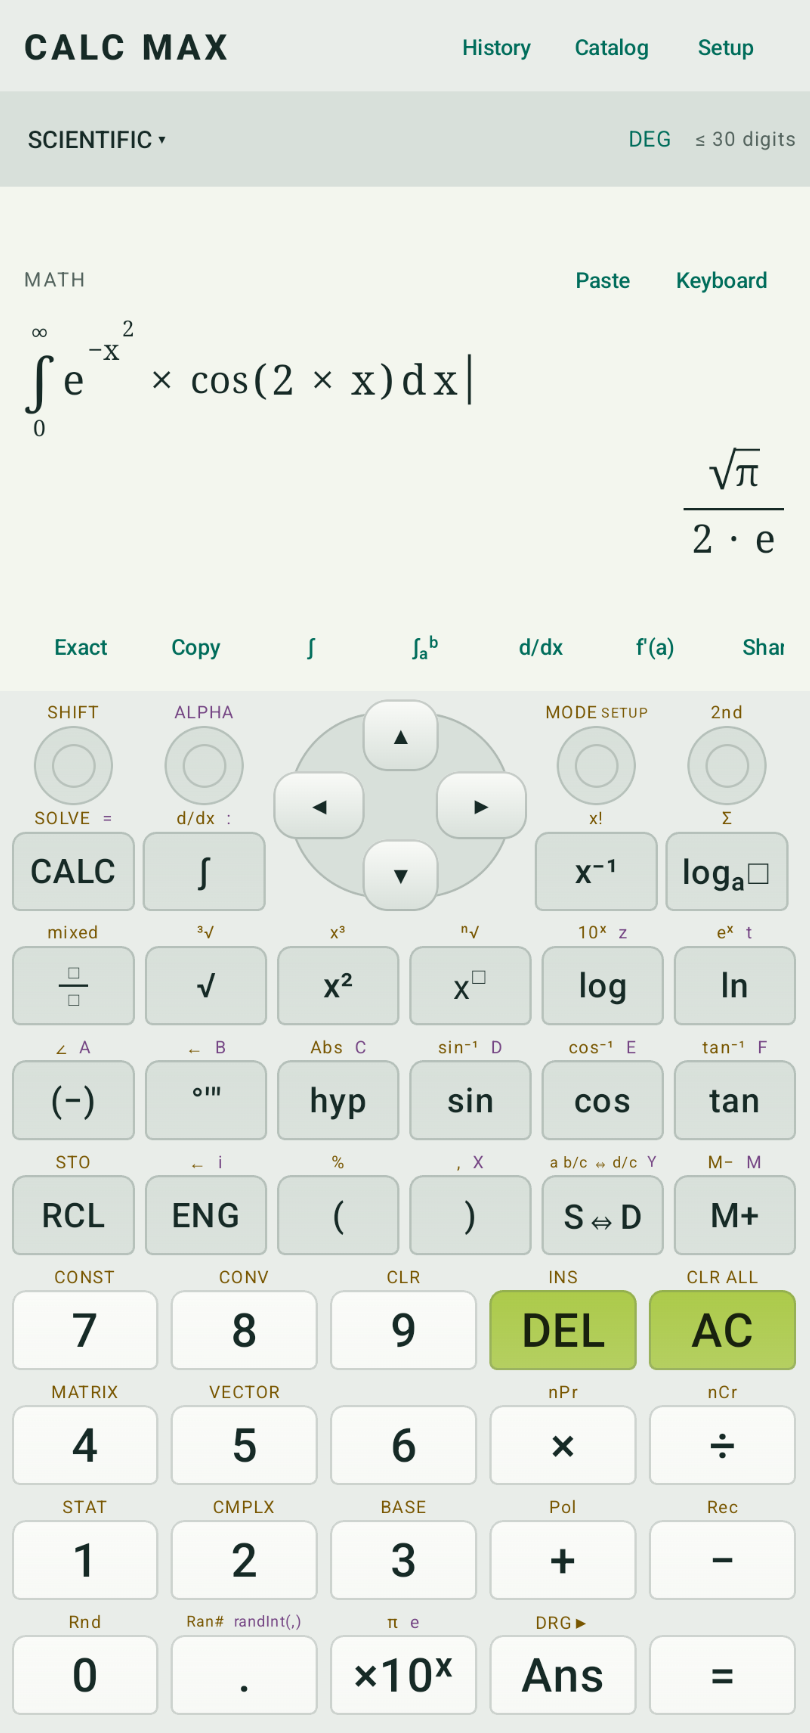
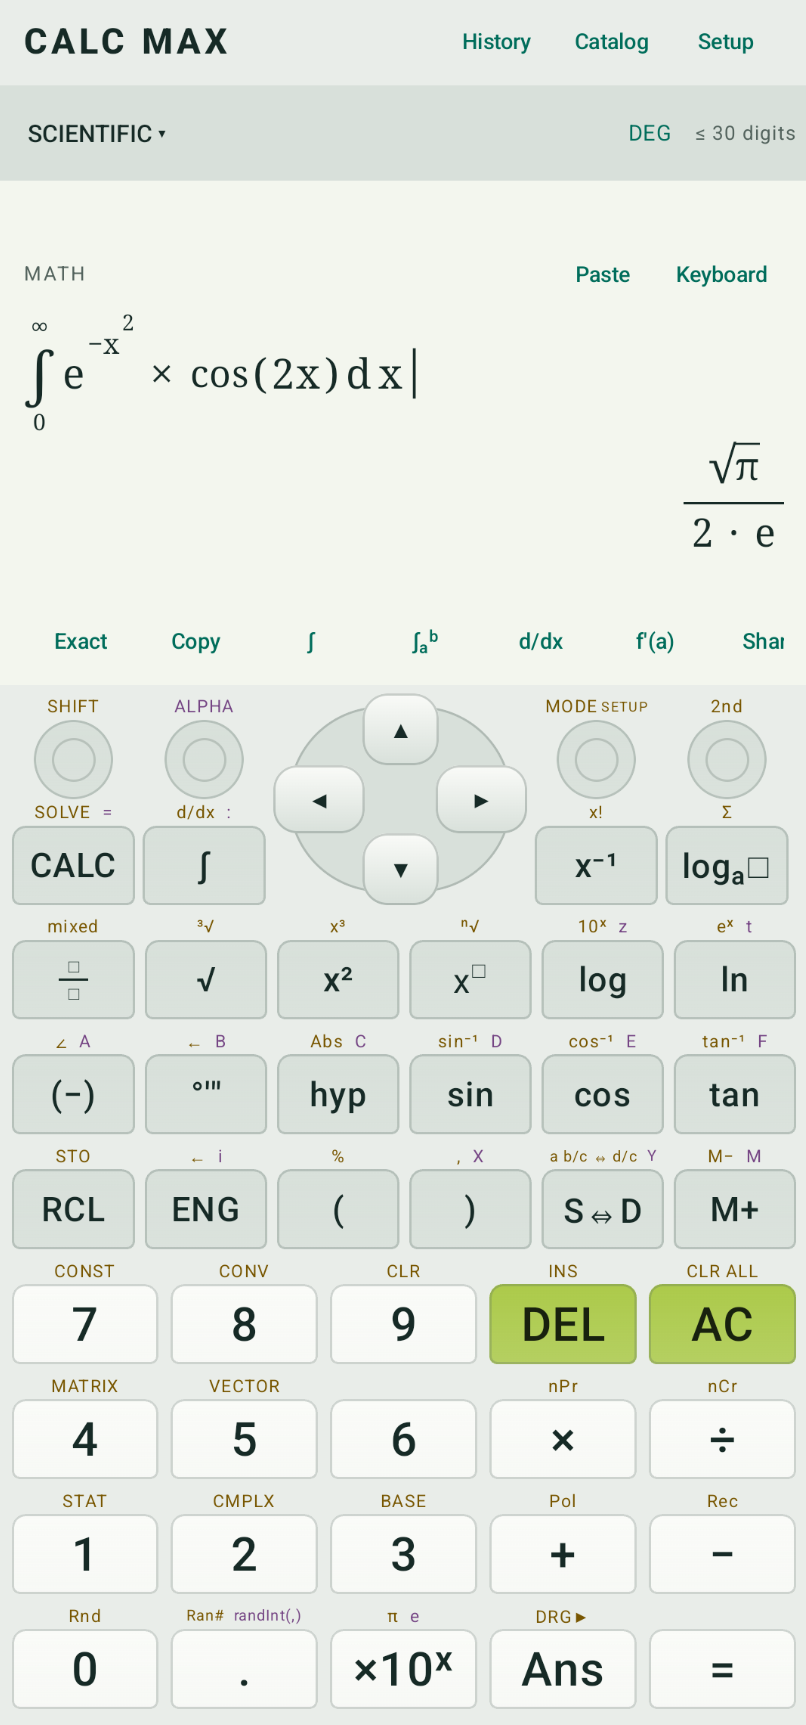
fix

diff --git a/app/src/main/java/com/example/calcmax/ui/MathDisplay.kt b/app/src/main/java/com/example/calcmax/ui/MathDisplay.kt
@@ -91,6 +91,9 @@ private fun Placeable.axis():Int = this[MathAxis].let{if(it==AlignmentLine.Unspe
     val value=node.optString("value")
     val array=node.optJSONArray("args")
     val children=(0 until (array?.length() ?: 0)).map{array!!.getJSONObject(it)}
+    val integrationTuple=if(kind=="call"&&value=="integrate"&&children.size==2&&children[1].optString("kind")=="tuple")children[1].optJSONArray("args")else null
+    val integrationArity=integrationTuple?.length()?.plus(1) ?: children.size
+    val coefficient=kind=="binary"&&value=="*"&&children.size==2&&children[0].optString("kind")=="number"&&children[1].optString("kind")=="symbol"
     val start=node.optInt("start",-1);val end=node.optInt("end",-1)
     val range=start..end
     val target=LocalMathCursorTarget.current
@@ -102,6 +105,10 @@ private fun Placeable.axis():Int = this[MathAxis].let{if(it==AlignmentLine.Unspe
     val touch=Modifier.then(if(selected||activeHole)Modifier.background(c.accent.copy(alpha=.17f),RoundedCornerShape(2.dp))else Modifier)
         .then(if(select!=null&&start>=0)Modifier.clickable{select(start,end)}else Modifier)
     @Composable fun child(i:Int,scale:Float=1f,hidden:Boolean=false) {children.getOrNull(i)?.let{MathNode(it,(size*scale).coerceAtLeast(11f),select,selection,depth+1,hidden)}}
+    @Composable fun integralPart(i:Int,scale:Float=1f) {
+        if(i==0||integrationTuple==null)child(i,scale)
+        else integrationTuple.optJSONObject(i-1)?.let{MathNode(it,(size*scale).coerceAtLeast(11f),select,selection,depth+1)}
+    }
     @Composable fun label(text:String,scale:Float=1f){MathText(text,size*scale)}
     @Composable fun wrapped(i:Int,scale:Float=1f){MathRow{label("(",scale);child(i,scale);label(")",scale)}}
     val fraction=kind=="fraction"||kind=="binary"&&value=="/"
@@ -168,28 +175,30 @@ private fun Placeable.axis():Int = this[MathAxis].let{if(it==AlignmentLine.Unspe
                 if(value=="nderivative"){label("│",1.4f);Box(Modifier.padding(top=16.dp)){MathRow{child(1,.6f);label("=",.6f);child(2,.6f)}}}
             }
             kind=="call"&&value in listOf("integrate","sum","product")->MathRow(3.dp){
-                MathStack(if(children.size>3)1 else 0){
-                    if(children.size>3)child(3,.55f)
+                MathStack(if(integrationArity>3)1 else 0){
+                    if(integrationArity>3)integralPart(3,.55f)
                     label(when(value){"integrate"->"∫";"sum"->"Σ";else->"Π"},1.4f)
-                    if(children.size>2)MathRow{if(value!="integrate"){child(1,.55f);label("=",.55f)};child(2,.55f)}
+                    if(integrationArity>2)MathRow{if(value!="integrate"){child(1,.55f);label("=",.55f)};integralPart(2,.55f)}
                 }
                 child(0)
-                if(value=="integrate"){label("d");child(1)}
+                if(value=="integrate"){label("d");integralPart(1)}
             }
             kind=="call"&&value=="limit"->MathRow(4.dp){MathStack(0){label("lim");MathRow{child(1,.55f);if(children.size>2){label("→",.55f);child(2,.55f)}}};child(0)}
             kind in listOf("call","function")&&value in listOf("piecewise","Piecewise")->MathRow{label("{",1.7f);Column{children.indices.forEach{child(it,.85f)}}}
-            else->MathRow(2.dp){
-                val wrap=kind in listOf("call","function","list","set")
+            else->MathRow(if(coefficient)0.dp else 2.dp){
+                val wrap=kind in listOf("call","function","list","tuple","set")
                 if(kind in listOf("call","function"))label(value,.9f)
                 if(wrap)label(when(kind){"list"->"[";"set"->"{";else->"("})
                 children.forEachIndexed{i,n->
                     val negative=kind=="sum"&&n.optString("kind")=="unary"&&n.optString("value")=="-"
                     if(negative){label(if(i==0)"−" else " − ");MathNode(n.getJSONArray("args").getJSONObject(0),size,select,selection,depth+1)}
                     else {
-                        if(i>0)label(when(kind){"sum"->" + ";"product"->" · ";"binary","relation"->when(value){"*"->" × ";"-"->" − ";"!="->" ≠ ";"<="->" ≤ ";">="->" ≥ ";else->" $value "};else->", "})
+                        val adjacentCoefficient=kind=="product"&&i>0&&children[i-1].optString("kind")=="number"&&n.optString("kind")=="symbol"
+                        if(i>0&&!coefficient&&!adjacentCoefficient)label(when(kind){"sum"->" + ";"product"->" · ";"binary","relation"->when(value){"*"->" × ";"-"->" − ";"!="->" ≠ ";"<="->" ≤ ";">="->" ≥ ";else->" $value "};else->", "})
                         if(kind=="product"&&n.optString("kind")=="sum")wrapped(i)else child(i)
                     }
                 }
+                if(kind=="tuple"&&children.size==1)label(",")
                 if(wrap)label(when(kind){"list"->"]";"set"->"}";else->")"})
                 if(children.isEmpty())label(value)
             }

diff --git a/math/src/test/kotlin/com/example/calcmax/math/ParserTest.kt b/math/src/test/kotlin/com/example/calcmax/math/ParserTest.kt
@@ -7,9 +7,16 @@ class ParserTest {
     @Test fun precedence() { assertEquals("*",p("2+3*4").args[1].value); assertEquals("unary",p("-2^2").kind); assertEquals("^",p("2^3^2").args[1].value) }
     @Test fun exactLiteral() { assertEquals("1",p("1/3").args[0].value); assertEquals("number",p("1.234567890123456789").kind) }
     @Test fun structures() { assertEquals("list",p("det([[1,2],[3,4]])").args[0].kind); assertEquals("relation",p("solve(x^2=1,x)").args[0].kind); assertEquals("*",p("2x").value) }
+    @Test fun integrationTuple() {
+        val integral=p("integrate(exp(-x^2)*cos(2x), (x, 0, oo))")
+        assertEquals("tuple",integral.args[1].kind)
+        assertEquals(listOf("x","0","oo"),integral.args[1].args.map{it.value})
+        assertEquals("*",integral.args[0].args[1].args[0].value)
+        assertEquals("tuple",p("(x,)").kind)
+    }
     @Test fun unicode() { assertEquals("^",p("x²").value); assertEquals("sqrt",p("√8").value); assertEquals("degree",p("30°").value) }
     @Test fun editor() { assertEquals("sqrt(8)",Editor().insert("sqrt()",5).insert("8").source); assertEquals("2+",Editor("2+3").delete().source); assertEquals("7",Editor("2+3",3,0).insert("7").source) }
-    @Test fun invalid() { for(s in listOf("", "1..2", "2+", "a.__class__", "f(1,)", "[1,2")) assertThrows(SyntaxException::class.java) { p(s) } }
+    @Test fun invalid() { for(s in listOf("", "1..2", "2+", "a.__class__", "f(1,)", "[1,2", "(x,,0)")) assertThrows(SyntaxException::class.java) { p(s) } }
     @Test fun complexity() { assertThrows(SyntaxException::class.java) { p("(".repeat(200)+"1"+")".repeat(200)) } }
     @Test fun editingHoles() {
         val tree=Editor("()/()").tree()!!

diff --git a/math/src/test/kotlin/com/example/calcmax/math/Cases.kt b/math/src/test/kotlin/com/example/calcmax/math/Cases.kt
@@ -25,7 +25,7 @@ fun main(args: Array<String>) {
         "qty(2,m)+qty(30,cm)" to "23/10 m", "convert(qty(1,kg)*qty(2,mps2),N)" to "2",
         "qty(1,km)/qty(1,m)" to "1000", "convert(qty(32,degF),degC)" to "0"
     )
-    val extras=listOf("1/0","0^0","inverse([[1,2],[2,4]])","dot([1,2],[1,2,3])","convert(1,m,kg)","convert(-1,K,degC)","factorial(-1)","sqrt(x^2)","solve((x^2-1)/(x-1)=2,x)","sin(x)","[cos(t),sin(t)]","1/x","tan(x)","nsolve(cos(x)-x,x,0,1)","nintegrate(sin(x),x,0,pi)","stats([1,2,3])","series(exp(x),x,0,4)","solve([x+y=3,x-y=1],[x,y])","integrate(exp(-x^2),x)","minimum(x^2,x,-2,3)","maximum(x^2,x,-2,3)","eigenvalues([[1,0],[0,2]])","lu([[1,2],[3,4]])","f(3)","x+1")
+    val extras=listOf("1/0","0^0","inverse([[1,2],[2,4]])","dot([1,2],[1,2,3])","convert(1,m,kg)","convert(-1,K,degC)","factorial(-1)","sqrt(x^2)","solve((x^2-1)/(x-1)=2,x)","sin(x)","cos(2*x)","[cos(t),sin(t)]","1/x","tan(x)","nsolve(cos(x)-x,x,0,1)","nintegrate(sin(x),x,0,pi)","stats([1,2,3])","series(exp(x),x,0,4)","solve([x+y=3,x-y=1],[x,y])","integrate(exp(-x^2),x)","integrate(exp(-x^2)*cos(2x),(x,0,oo))","integrate(exp(-x^2)*cos(2*x),x,0,oo)","minimum(x^2,x,-2,3)","maximum(x^2,x,-2,3)","eigenvalues([[1,0],[0,2]])","lu([[1,2],[3,4]])","f(3)","x+1")
     val values=cases.map { (source,expected)->"{\"source\":${quote(source)},\"expected\":${quote(expected)},\"tree\":${Parser(source).parse().json()}}" }+extras.map { "{\"source\":${quote(it)},\"tree\":${Parser(it).parse().json()}}" }
     File(args[0]).apply { parentFile.mkdirs();writeText(values.joinToString(",","[","]")) }
 }

diff --git a/math/src/main/kotlin/com/example/calcmax/math/Expression.kt b/math/src/main/kotlin/com/example/calcmax/math/Expression.kt
@@ -65,7 +65,18 @@ class Parser(private val source: String, private val allowHoles: Boolean = false
         var left = when {
             first.text in listOf("+", "-") -> Expr("unary", first.text, listOf(expression(25)), first.start, tokens[index-1].end)
             first.text == "√" -> Expr("call", "sqrt", listOf(expression(25)), first.start, tokens[index-1].end)
-            first.text == "(" -> { val x = expression(0); val end = expect(")"); Expr("group", args = listOf(x), start = first.start, end = end.end) }
+            first.text == "(" -> {
+                val args = mutableListOf(expression(0))
+                var tuple = false
+                while(token.text == ",") {
+                    tuple = true
+                    take()
+                    if(token.text == ")") break
+                    args += expression(0)
+                }
+                val end = expect(")")
+                Expr(if(tuple) "tuple" else "group", args = args, start = first.start, end = end.end)
+            }
             first.text == "[" -> {
                 val args = mutableListOf<Expr>()
                 if(token.text != "]") { args += expression(0); while(token.text == ",") { take(); args += expression(0) } }

diff --git a/app/src/main/java/com/example/calcmax/ui/EquationScreen.kt b/app/src/main/java/com/example/calcmax/ui/EquationScreen.kt
@@ -107,6 +107,7 @@ private fun editableSource(node:JSONObject):String {
         "binary","relation"->"(${parts[0]}$value${parts[1]})"
         "unary"->"$value(${parts[0]})"
         "list"->"[${parts.joinToString(",")}]"
+        "tuple"->"(${parts.joinToString(",")}${if(parts.size==1) "," else ""})"
         "group"->"(${parts[0]})"
         else->value
     }

diff --git a/app/src/main/python/calc_engine.py b/app/src/main/python/calc_engine.py
@@ -144,6 +144,7 @@ class Engine:
         if kind == "mapping": return {build(pair["args"][0]):build(pair["args"][1]) for pair in args}
         if kind == "group": return build(args[0])
         if kind == "list": return [build(a) for a in args]
+        if kind == "tuple": return tuple(build(a) for a in args)
         if kind == "unary": return (-1 if value == "-" else 1)*build(args[0])
         if kind in ("binary", "relation"):
             require(value != ":=", "Use STO for variables or the Variables editor for functions")
@@ -174,6 +175,7 @@ class Engine:
         if scoped:
             varnode = args[1]
             candidates = varnode.get("args", []) if varnode["kind"] == "list" else [varnode]
+            if varnode["kind"] == "tuple": candidates = varnode["args"][:1]
             if varnode["kind"] == "relation": candidates = [varnode["args"][0]]
             for n in candidates:
                 if n["kind"] == "symbol": self.bindings[n["value"]] = self.symbol(n["value"])
@@ -253,6 +255,7 @@ class Engine:
             return s.divisors(a[0])
         if name == "subs": return a[0].subs(a[1],a[2])
         if name == "integrate":
+            require(len(a) in (2,4), "integrate expects a variable or integration bounds")
             spec = a[1] if len(a)==2 else (a[1],a[2],a[3])
             result = s.integrate(a[0],spec)
             if result.has(s.Integral): self.note = "Symbolic solution not found for the remaining integral."
@@ -399,6 +402,8 @@ def display_tree(x):
     if isinstance(x,s.FiniteSet): return t("set",args=[display_tree(a) for a in sorted(x,key=s.default_sort_key)])
     if isinstance(x,Relational): return t("relation",x.rel_op,[display_tree(x.lhs),display_tree(x.rhs)])
     if isinstance(x,s.Function): return t("function",x.func.__name__,[display_tree(a) for a in x.args])
+    if isinstance(x,s.Symbol): return t("symbol",readable(x))
+    if isinstance(x,s.Number): return t("number",readable(x))
     return t("text",readable(x))
 
 def readable(x):
@@ -501,7 +506,9 @@ def programmer(request):
 
 def dispatch(payload):
     request=json.loads(payload)
-    budget=Budget(float(request.get("budget",8)))
+    tree=request.get("tree",{})
+    integration=tree.get("kind")=="call" and tree.get("value")=="integrate"
+    budget=Budget(float(request.get("budget",8)),steps=6000000 if integration else 1500000)
     try:
         sys.settrace(budget.trace)
         engine=Engine(request)

diff --git a/tests/test_engine.py b/tests/test_engine.py
@@ -3,6 +3,7 @@ import pathlib
 import sys
 import unittest
 import random
+import subprocess
 from fractions import Fraction
 
 ROOT = pathlib.Path(__file__).resolve().parents[1]
@@ -67,6 +68,28 @@ class EngineTests(unittest.TestCase):
         self.assertAlmostEqual(float(run("nintegrate(sin(x),x,0,pi)")["exact"]),2,12)
         self.assertEqual(run("minimum(x^2,x,-2,3)")["exact"],"0")
         self.assertEqual(run("maximum(x^2,x,-2,3)")["exact"],"9")
+    def test_sympy_integration_bounds(self):
+        tuple_result=run("integrate(exp(-x^2)*cos(2x),(x,0,oo))")
+        flat_result=run("integrate(exp(-x^2)*cos(2*x),x,0,oo)")
+        self.assertTrue(tuple_result["ok"],tuple_result)
+        self.assertEqual(tuple_result["exact"],flat_result["exact"])
+        self.assertEqual(tuple_result["exact"],"sqrt(pi)*exp(-1)/2")
+        self.assertEqual(run("integrate(exp(-x^2)*cos(2x),(x,0,oo))",variables={"x":{"kind":"number","value":"7"}})["exact"],tuple_result["exact"])
+    def test_symbolic_coefficient_display_tree(self):
+        result=run("cos(2*x)")
+        self.assertTrue(result["ok"],result)
+        self.assertEqual([part["kind"] for part in result["tree"]["args"][0]["args"]],["number","symbol"])
+    def test_cold_sympy_integration_bounds(self):
+        tree=TREES["integrate(exp(-x^2)*cos(2x),(x,0,oo))"]
+        dependencies_path=str(pathlib.Path(core.s.__file__).resolve().parent.parent)
+        script=("import sys,json\n"
+                f"sys.path.insert(0,{dependencies_path!r})\n"
+                f"sys.path.insert(0,{str(ROOT / 'app/src/main/python')!r})\n"
+                "import calc_engine\n"
+                f"print(calc_engine.dispatch({json.dumps(json.dumps({'tree':tree,'angle':'RAD'}))}))")
+        result=subprocess.run([sys.executable,"-c",script],cwd=ROOT,capture_output=True,text=True,timeout=20)
+        self.assertEqual(result.returncode,0,result.stderr)
+        self.assertTrue(json.loads(result.stdout)["ok"],result.stdout)
     def test_graph(self):
         result=run("sin(x)",action="graph",trees=[TREES["sin(x)"]],min=-3,max=3,samples=100)
         self.assertTrue(result["ok"],result)

diff --git a/README.md b/README.md
@@ -35,6 +35,7 @@ factor(x^4-1)
 diff(sin(x^2),x)
 integrate(x^2*exp(x),x)
 integrate(x^2,x,0,1)
+integrate(exp(-x^2)*cos(2x),(x,0,oo))
 limit(sin(x)/x,x,0)
 limit(1/x,x,0,left)
 series(exp(x),x,0,6)
